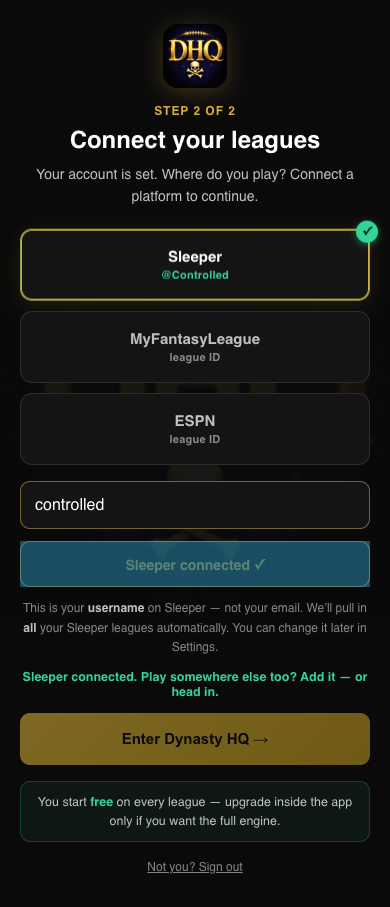
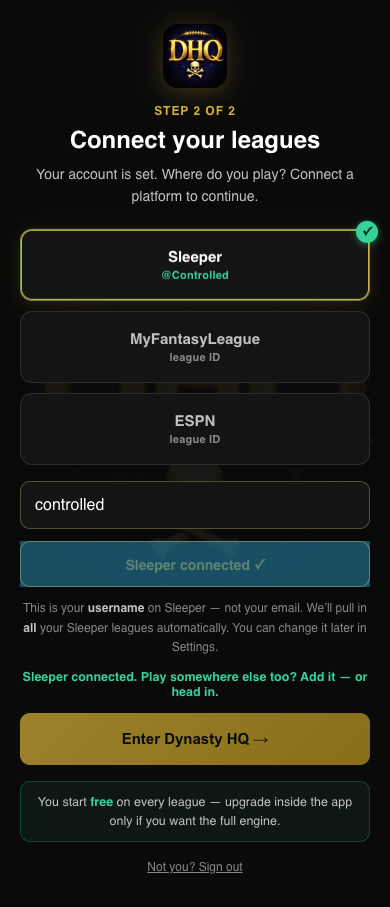
Record integrated ESPN candidate and canonical release dependency

Changed region(s): [[0.0308, 0.7718, 0.9538, 0.8644], [0.0923, 0.247, 0.8923, 0.2778]]

diff --git a/reports/public-readiness/public-integrated-candidate-20260920.md b/reports/public-readiness/public-integrated-candidate-20260920.md
@@ -10,4 +10,16 @@ Independent reviewer cleared each substantive source change and the dependency d
 
 Integrated independently reviewed4167ec0 as43a0b7b. The only conflict was additive package test scripts; both connection and billing scripts are retained. Product billing/upgrade/Settings bytes match the reviewed source exactly after repository hooks. Root independently reran34 actual-source groups and10 Chrome fixture scenarios, including the real15-second deadline, account-switch checkout/portal failures and saved-entitlement confirmation. Existing npmtest198 checks and the70-script build with exact actual shareddedbb161 pass. Logs: evidence/integrated-public-web-billing-{source,browser}-sep20.log and public-billing-integrated-{core,build}-sep20.log.
 
-No live provider or backend mutation occurred. This public candidate remains an owning-source proposal. The separately reviewed ESPN hub is not integrated here yet; canonical provider hydration has independently reproduced season/account-continuation defects and is being repaired before complete ESPN readiness can be claimed.
+No live provider or backend mutation occurred. This public candidate remains an owning-source proposal. The ESPN follow-through below supersedes its earlier unintegrated status.
+
+## ESPN integration checkpoint
+
+Integrated independently reviewed hub `df76964` as `cc375e7` and minimal caller `f6563fa` as `53ff177`. All account, connection, billing and ESPN test scripts were preserved through the additive package conflict. The four changed source/test files remain byte-equal to the reviewed ESPN branch after repository hooks.
+
+Canonical season/account continuation corrections are separately published in [DHQ-Shared PR21](https://github.com/skjjcruz/DHQ-Shared/pull/21), source `d45b5f5`, independent review `3c88537`. Root independently reran all18 canonical provider groups and16 actual hub/LeagueDetail caller groups. The latter used the exact candidate provider bytes, not an old copied module.
+
+On integrated public `53ff177`, the preview build explicitly uses `DHQ_SHARED_SOURCE=/Users/jacobc/Projects/dhq-shared-readiness-espn`. It compiles70 source scripts; existing198 checks,16 ESPN groups and3 Chrome ESPN hub layouts pass. Account26+6 browser, connection18+4 browser and billing34+10 browser checks were rerun on the combined candidate. Logs are `evidence/public-espn-integrated-*-sep20.log`.
+
+**Canonical release dependency:** no public workflow pin was changed. Its normal published dependency is still `dedbb161`; the corrected provider is a reviewed candidate. Before deployment, integrate the canonical change through its owner process, update the exact consumer pin, rebuild and repeat final integrated gates. Do not call the new provider tests or live hydration passed against the old pin. PR21 and this caller must reach served assets together to close the two provider findings live.
+
+The browser's LeagueDetail renderer remains a declared handoff fixture; the real loader plus real provider have separate source-runtime integration coverage. Complete rendered league/engine journeys, real private/historical provider payloads, transaction-outage truthfulness and the other earlier external gates remain open. No actualpublic deployment or whole-suite readiness is claimed.
